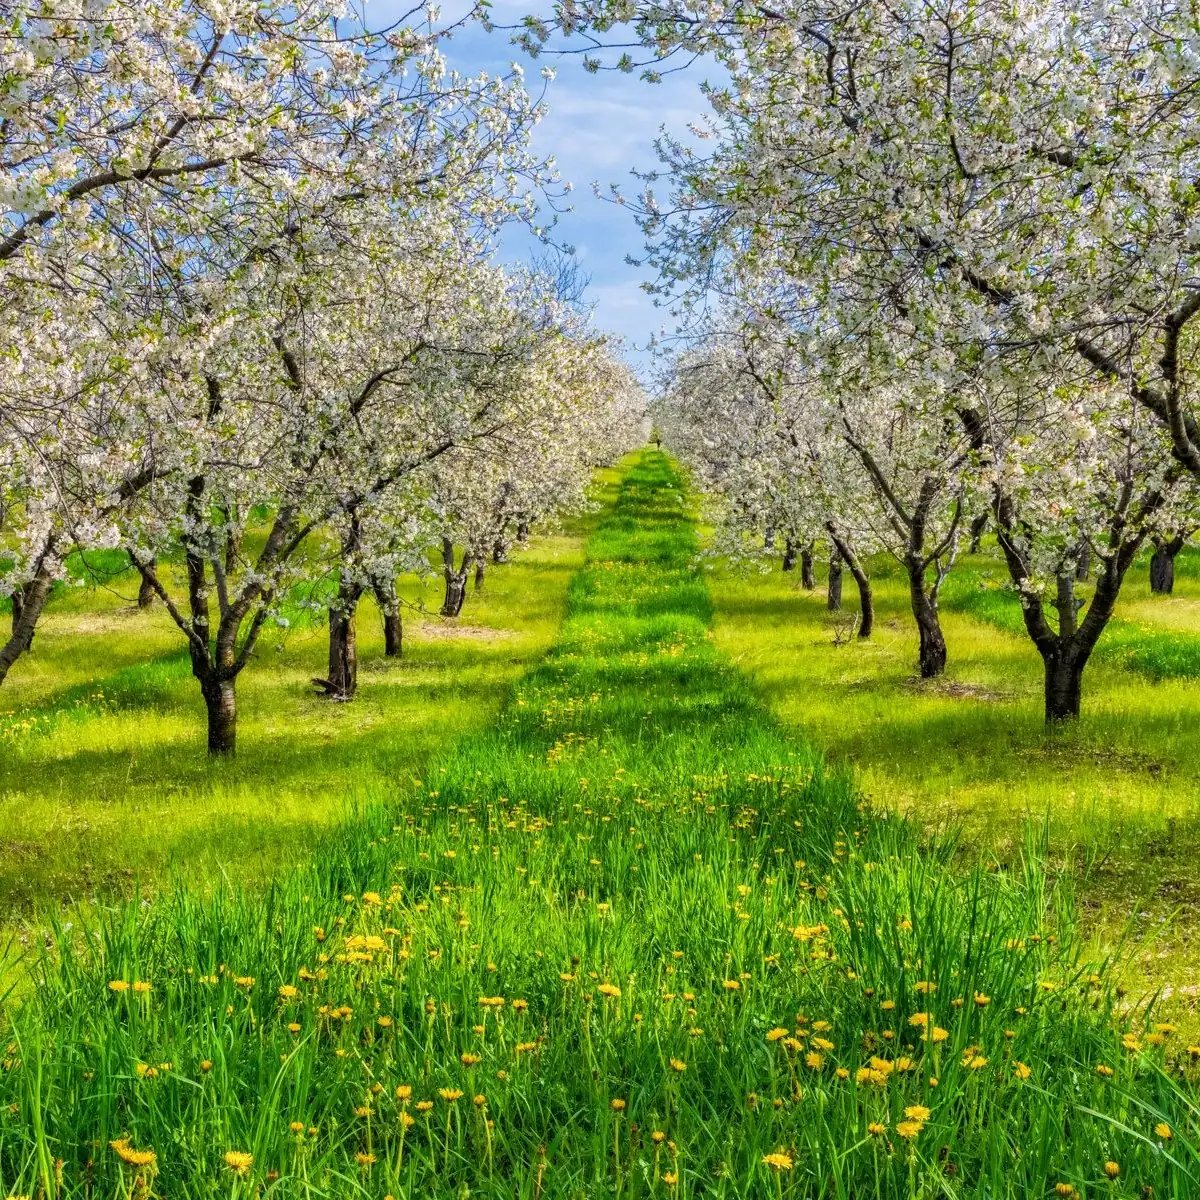
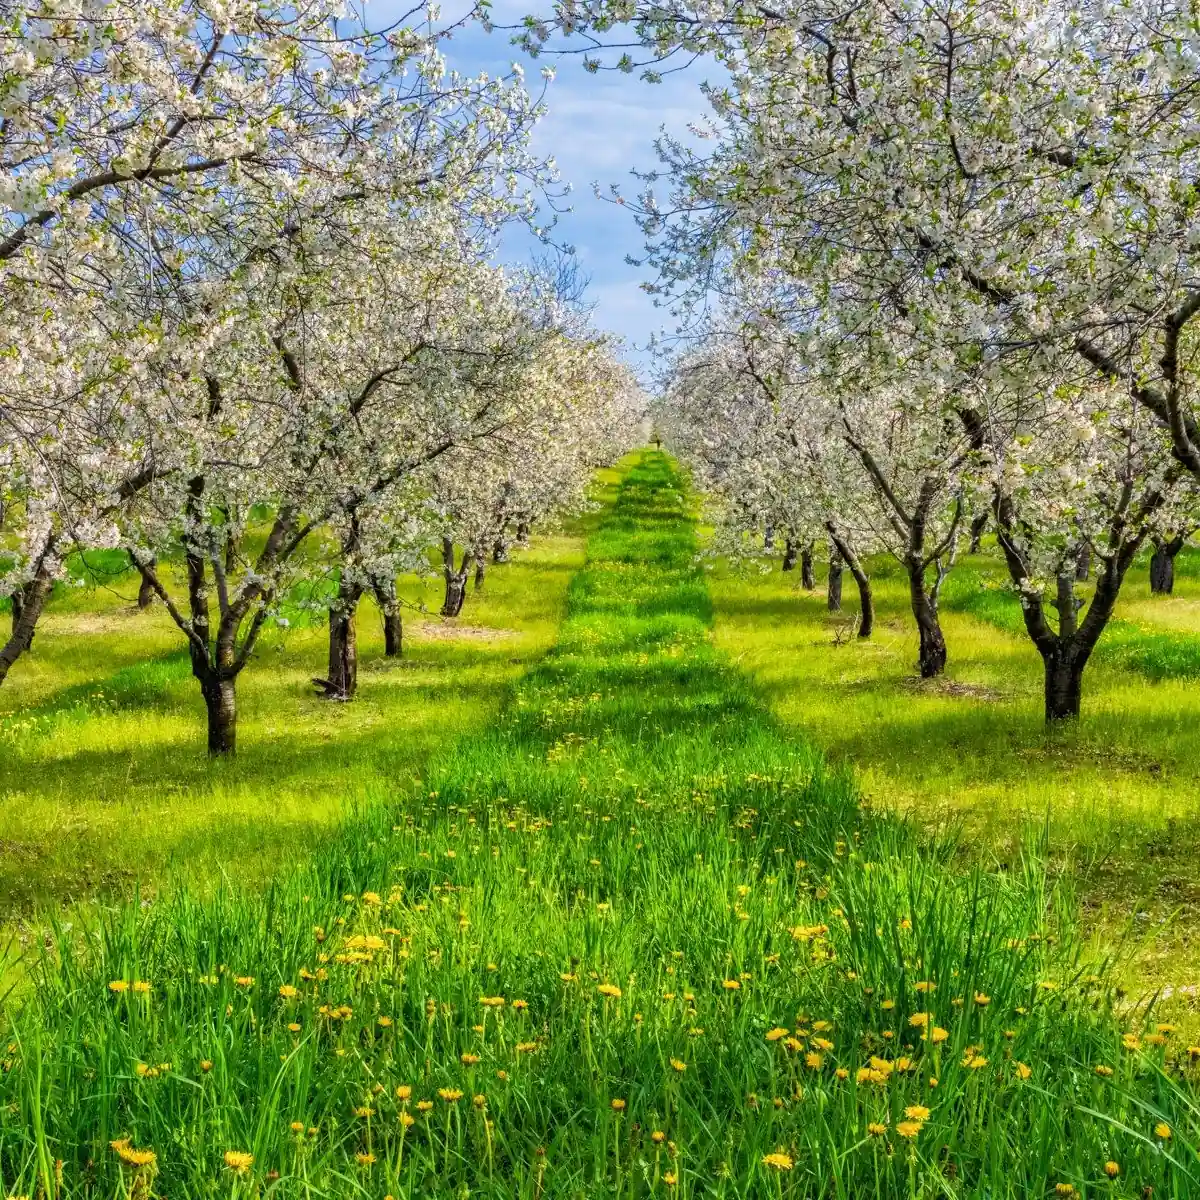
up

diff --git a/index.html b/index.html
@@ -1,5 +1,5 @@
 <!DOCTYPE html>
-<html lang="en-US" dir="ltr">
+<html lang="fr-FR" dir="ltr">
 
 <head>
   